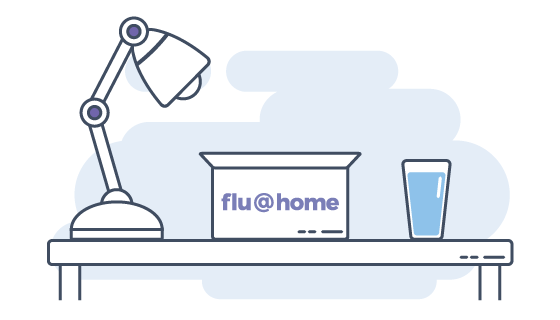
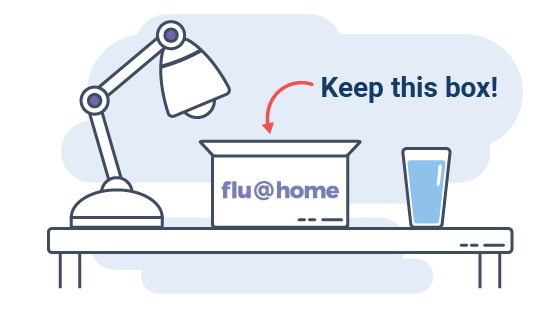
Tweaks to Welcome Back screen

diff --git a/FluStudy/src/ui/screens/SurveyScreens.tsx b/FluStudy/src/ui/screens/SurveyScreens.tsx
@@ -160,8 +160,8 @@ class WelcomeBackScreen extends React.Component<
         canProceed={true}
         desc={t("description")}
         hideBackButton={!this.props.skipPartOne}
+        imageSrc={require("../../img/WelcomeBack.png")}
         navigation={this.props.navigation}
-        stableImageSrc={require("../../img/WelcomeBack.png")}
         title={t("welcomeBack")}
         onBack={this._onBack}
         onNext={this._onNext}
